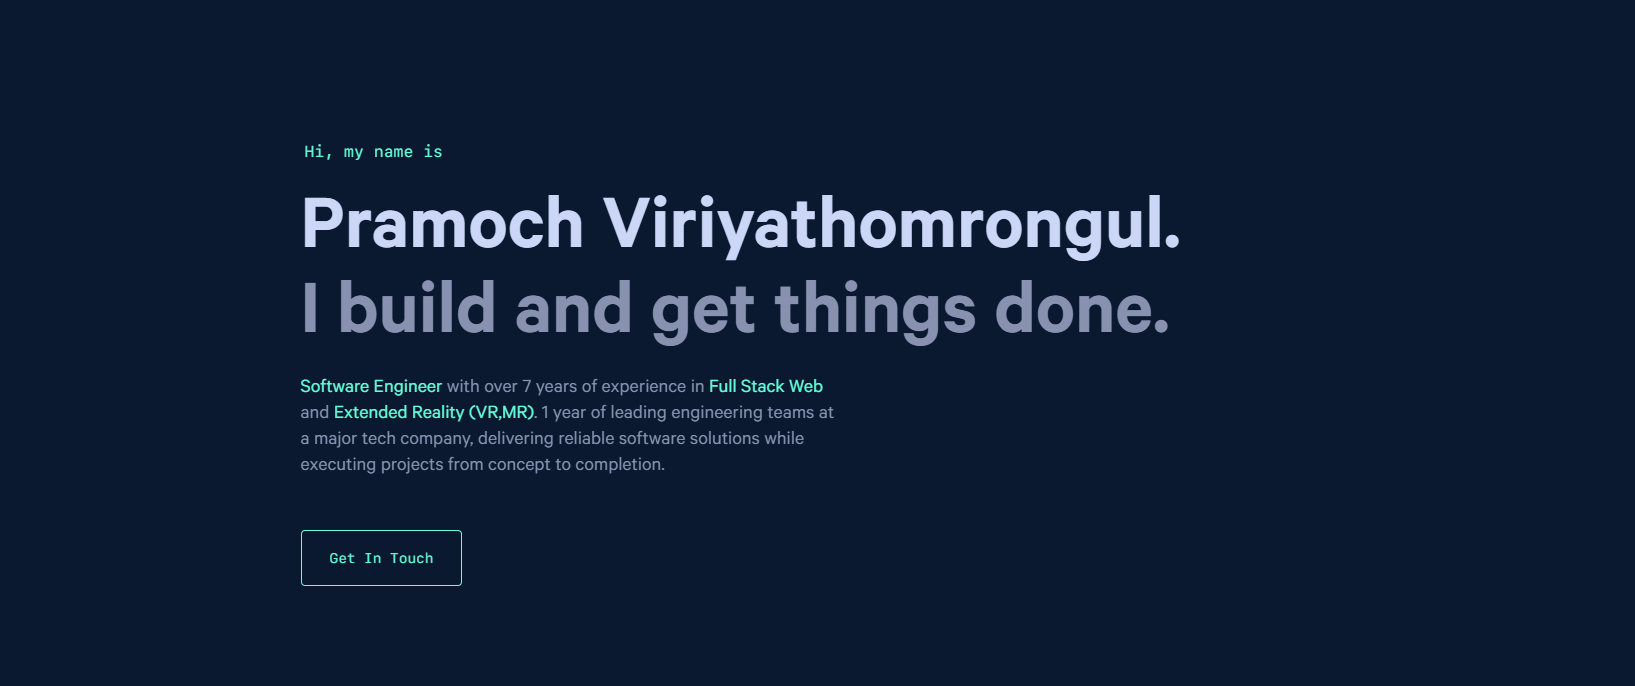
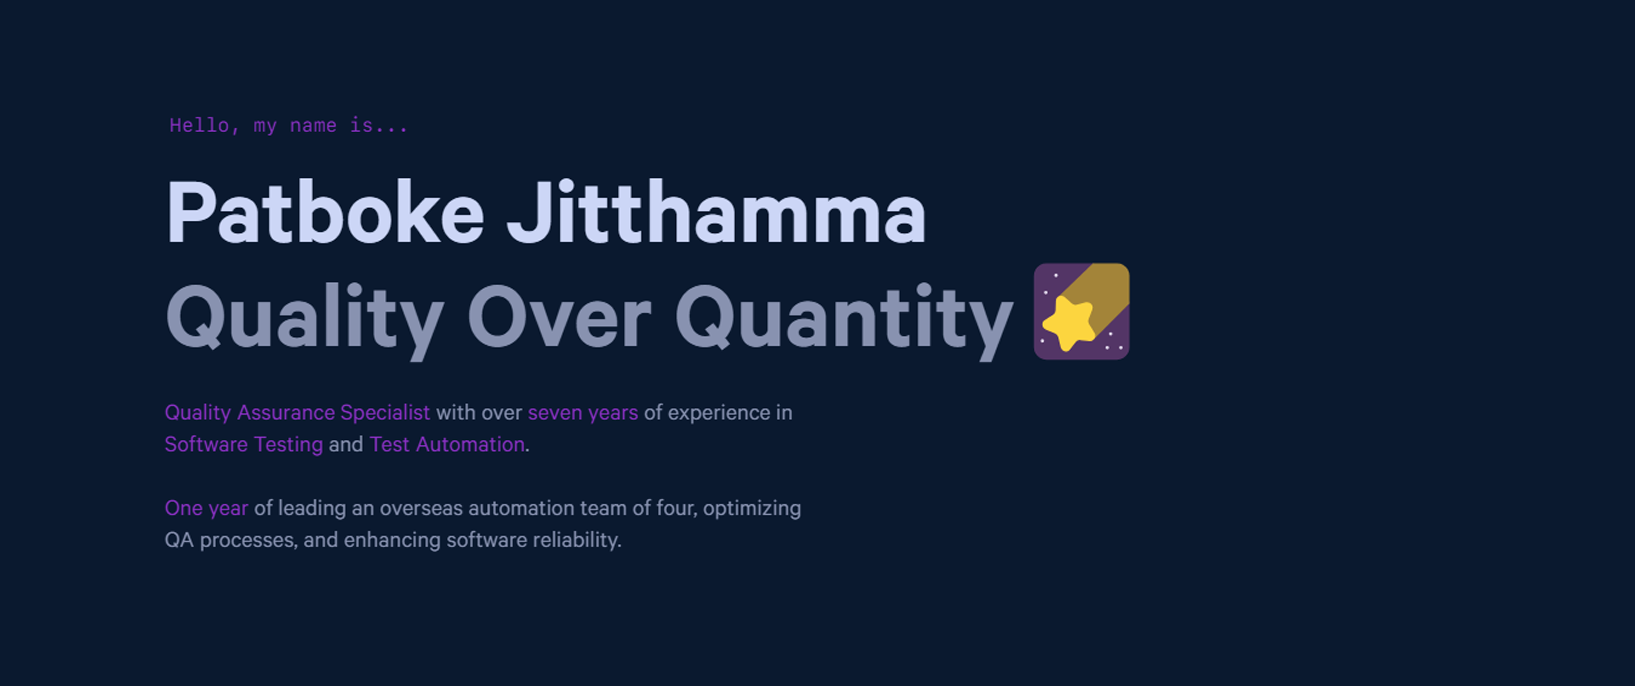
clean

diff --git a/gatsby-config.js b/gatsby-config.js
@@ -6,7 +6,7 @@ module.exports = {
   siteMetadata: {
     title: 'Patboke Jitthamma',
     description:
-      'Pramoch Viriyathomrongul is a software engineer who specializes in XR development and Web development.',
+      'Patboke Jitthamma is a Quality Assurance Specialist with over 7 years of experience in Software Testing and Test Automation.',
     siteUrl: 'https://pjitthamma.netlify.app', // No trailing slash allowed!
     image: '/hero.png', // Path to your image you placed in the 'static' folder
     twitterUsername: '',
@@ -22,8 +22,8 @@ module.exports = {
     {
       resolve: `gatsby-plugin-manifest`,
       options: {
-        name: 'Pramoch Viriyathomrongul',
-        short_name: 'Pramoch Viriyathomrongul',
+        name: 'Patboke Jitthamma',
+        short_name: 'Patboke Jitthamma',
         start_url: '/',
         background_color: config.colors.darkNavy,
         theme_color: config.colors.navy,
